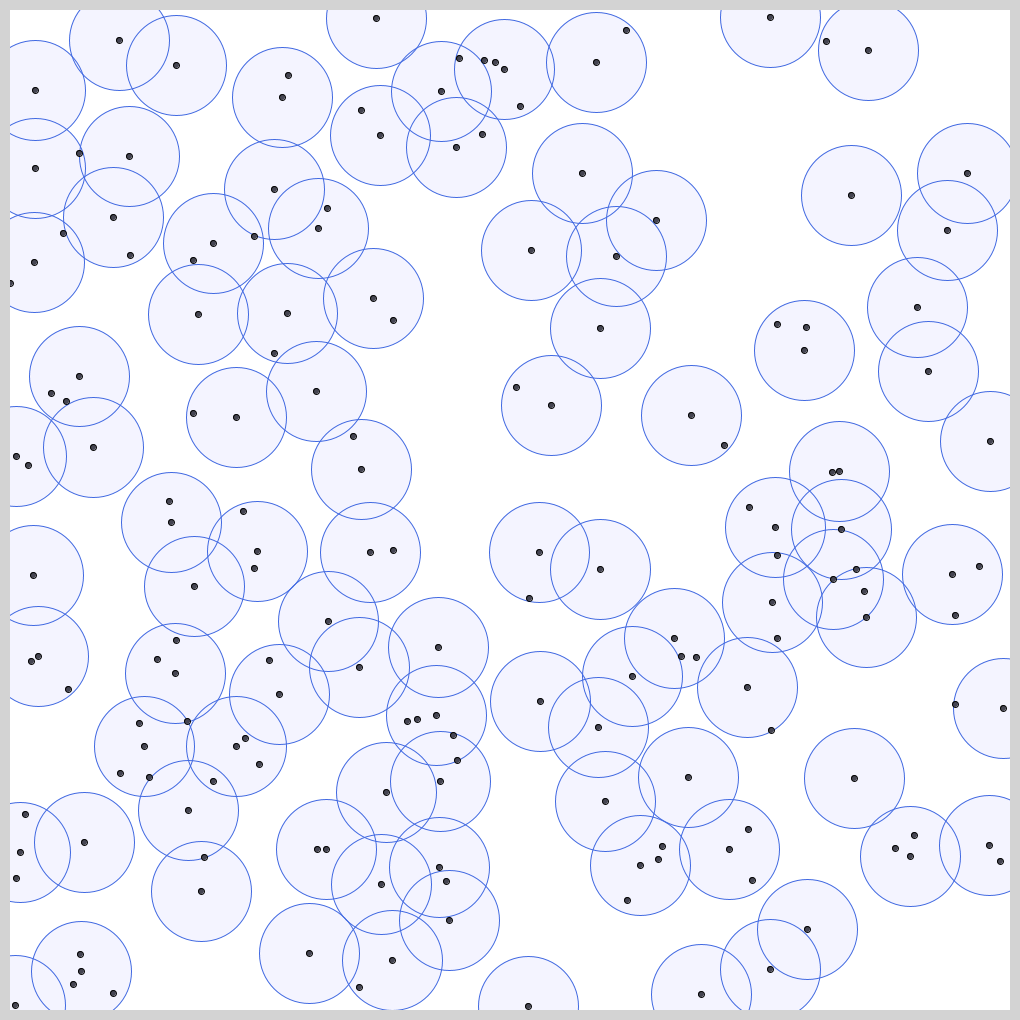
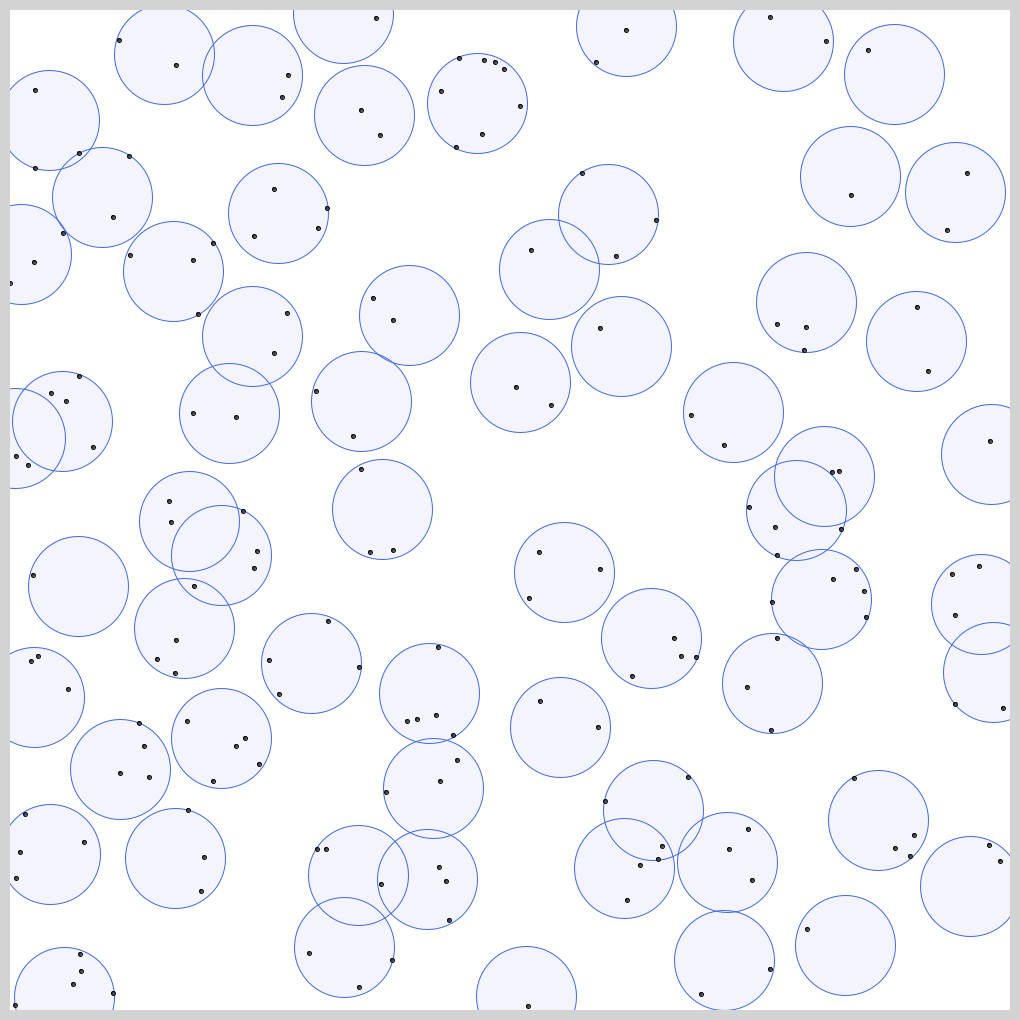
Update dcp/Visualizer.java

diff --git a/DiskCovering/tester/Visualizer.java b/DiskCovering/tester/Visualizer.java
@@ -98,7 +98,7 @@ public class Visualizer extends JFrame
         }
 
         /* Draw the vertex */
-        final int R1 = 6;
+        final int R1 = 4;
         for (int i = 0; i < tester.N; i++) {
             g2.setColor(new Color(0x454552));
             g2.fillOval(tester.px[i] - R1 / 2, tester.py[i] - R1 / 2, R1, R1);
